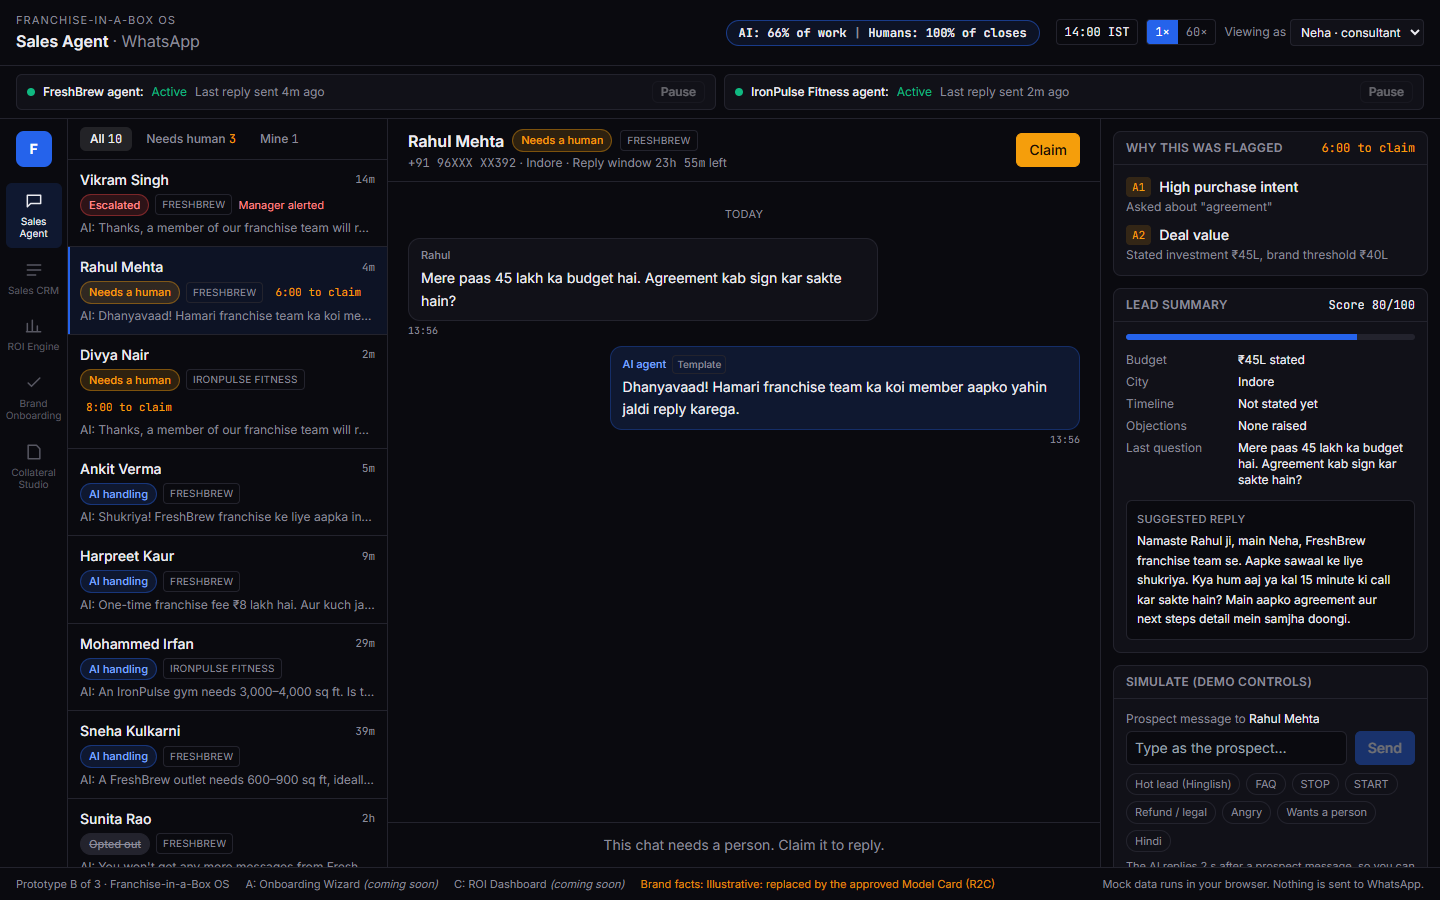
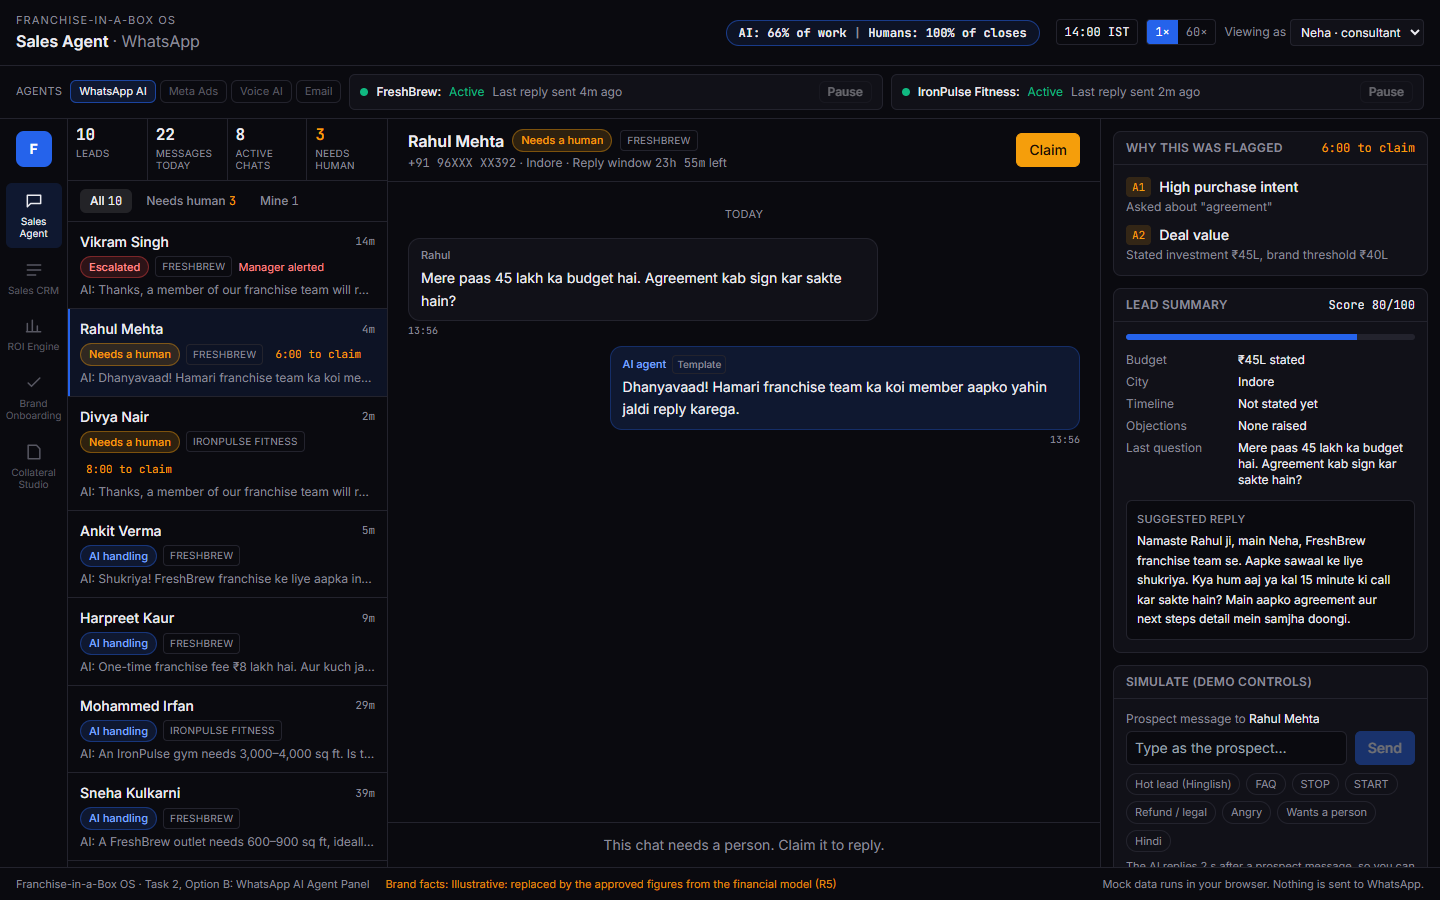
R2B: add Agent Switchboard and live tracking; drop A/C references
- Header leads with Module 4's Agent Switchboard (WhatsApp AI live; Meta Ads,
  Voice AI, Email shown but greyed: not part of this prototype)
- Inbox shows live counts: leads, messages today (with AI share), active chats,
  needs human
- Footer and approved-facts note no longer point to Prototypes A/C; facts are
  illustrative until the R5 financial model supplies them
- Screenshots retaken (desktop and 375 px, 0 console errors, no sideways scroll)

Changed region(s): [[0.0, 0.0933, 0.6875, 0.9956], [0.5, 0.0933, 0.8438, 0.1244], [0.25, 0.6844, 0.2812, 0.7156]]

diff --git a/prototypes/r2b-whatsapp-agent-panel/src/ui/Header.tsx b/prototypes/r2b-whatsapp-agent-panel/src/ui/Header.tsx
@@ -65,18 +65,36 @@ export function Header() {
   )
 }
 
+// Module 4's Agent Switchboard from the brief. Only the WhatsApp AI Agent is in this prototype (Task 2, Option B).
+const AGENTS = [
+  { id: 'whatsapp', label: 'WhatsApp AI', live: true },
+  { id: 'meta', label: 'Meta Ads', live: false },
+  { id: 'voice', label: 'Voice AI', live: false },
+  { id: 'email', label: 'Email', live: false },
+]
+
 function AgentStrip() {
   const { w, ui } = useApp()
   return (
-    <div className="flex flex-wrap gap-1.5 border-t border-line px-3 py-1.5 sm:gap-2 sm:px-4 sm:py-2" data-testid="agent-strip">
+    <div className="flex flex-wrap items-center gap-1.5 border-t border-line px-3 py-1.5 sm:gap-2 sm:px-4 sm:py-2" data-testid="agent-strip">
+      <div className="flex w-full items-center gap-1 lg:w-auto" role="group" aria-label="Agent switchboard" data-testid="switchboard">
+        <span className="mr-1 text-[11px] uppercase tracking-wide text-muted">Agents</span>
+        {AGENTS.map((g) => (
+          <span key={g.id} data-testid={`switch-${g.id}`} aria-disabled={!g.live}
+            title={g.live ? 'Shown below, per brand' : `${g.label} agent: not part of this prototype`}
+            className={`whitespace-nowrap rounded-md border px-2 py-0.5 text-[11px] ${g.live ? 'border-accent/60 bg-accent/15 text-ink' : 'cursor-not-allowed border-line text-muted/60'}`}>
+            {g.label}
+          </span>
+        ))}
+      </div>
       {Object.entries(w.agents).map(([brandId, a]) => {
         const isManager = MANAGER_OF[brandId] === ui.viewer
         const dot = a.status === 'ACTIVE' ? 'bg-success' : a.status === 'PAUSED' ? 'bg-alert' : 'bg-danger animate-pulse'
         return (
           <div key={brandId} data-testid={`agent-${brandId}`} data-status={a.status}
-            className="flex min-w-0 flex-1 basis-auto items-center sm:basis-72 gap-2 rounded-md border border-line bg-card px-2.5 py-1 text-xs sm:py-1.5">
+            className="flex min-w-0 flex-1 basis-auto items-center gap-2 sm:basis-64 rounded-md border border-line bg-card px-2.5 py-1 text-xs sm:py-1.5">
             <span className={`h-2 w-2 shrink-0 rounded-full ${dot}`} />
-            <span className="whitespace-nowrap font-medium">{BRANDS[brandId].name}<span className="hidden sm:inline"> agent</span>:</span>
+            <span className="whitespace-nowrap font-medium">{BRANDS[brandId].name}:</span>
             <span className={a.status === 'ERROR' ? 'text-[#FF8A8A]' : a.status === 'PAUSED' ? 'text-alert' : 'text-success'}>
               {a.status === 'ACTIVE' ? 'Active' : a.status === 'PAUSED' ? 'Paused' : 'Error'}
             </span>

diff --git a/prototypes/r2b-whatsapp-agent-panel/src/ui/Inbox.tsx b/prototypes/r2b-whatsapp-agent-panel/src/ui/Inbox.tsx
@@ -1,6 +1,6 @@
 import { USERS } from '../data/brands'
-import { fmtAgo, fmtCountdown, MIN } from '../engine/clock'
-import { claimTimeLeft } from '../engine/machine'
+import { HOUR, fmtAgo, fmtCountdown, MIN } from '../engine/clock'
+import { OPEN_STATES, claimTimeLeft } from '../engine/machine'
 import type { Conversation, World } from '../engine/types'
 import { setUI, useApp, type Filter } from '../store'
 import { BrandTag, StateChip } from './bits'
@@ -37,6 +37,7 @@ export function Inbox() {
 
   return (
     <section className="flex h-full min-h-0 flex-col border-r border-line" aria-label="Conversations">
+      <LiveStats />
       <div className="flex items-center gap-1 border-b border-line px-3 py-2" role="tablist">
         {FILTERS.map((f) => (
           <button key={f.id} role="tab" aria-selected={ui.filter === f.id} data-testid={`filter-${f.id}`}
@@ -55,6 +56,33 @@ export function Inbox() {
             : shown.map((c) => <Row key={c.id} c={c} />)}
       </ul>
     </section>
+  )
+}
+
+const IST = 5.5 * HOUR
+const dayOf = (t: number) => Math.floor((t + IST) / (24 * HOUR))
+
+/** Live tracking of leads, messages and conversations (brief, Module 4). Recomputed from the same world on every tick. */
+function LiveStats() {
+  const { w } = useApp()
+  const convs = Object.values(w.conversations)
+  const today = dayOf(w.now)
+  const msgs = Object.values(w.messages).flat().filter((m) => m.sender !== 'system' && dayOf(m.ts) === today)
+  const stats = [
+    { id: 'leads', label: 'Leads', value: convs.length },
+    { id: 'messages', label: 'Messages today', value: msgs.length, sub: `${msgs.filter((m) => m.sender === 'ai').length} by AI` },
+    { id: 'active', label: 'Active chats', value: convs.filter((c) => OPEN_STATES.includes(c.state)).length },
+    { id: 'needs-human', label: 'Needs human', value: convs.filter(needsHuman).length, alert: true },
+  ]
+  return (
+    <div className="grid grid-cols-4 border-b border-line" data-testid="live-stats" aria-label="Live tracking">
+      {stats.map((s) => (
+        <div key={s.id} className="border-r border-line px-2 py-2 last:border-r-0" data-testid={`stat-${s.id}`}>
+          <div className={`num text-base font-semibold leading-none ${s.alert && s.value ? 'text-alert' : ''}`}>{s.value}</div>
+          <div className="mt-1 text-[10px] uppercase leading-tight tracking-wide text-muted" title={s.sub ? `${s.label} · ${s.sub}` : s.label}>{s.label}</div>
+        </div>
+      ))}
+    </div>
   )
 }
 

diff --git a/prototypes/r2b-whatsapp-agent-panel/src/data/approvedFacts.ts b/prototypes/r2b-whatsapp-agent-panel/src/data/approvedFacts.ts
@@ -1,8 +1,8 @@
 // The only numbers the agent may quote (A32).
 //
-// ILLUSTRATIVE PLACEHOLDERS. The brief gives no FreshBrew figures and the ROI Dashboard (R2C) that
-// approves the real Model Card isn't built yet. Every value here is shown in the UI as "illustrative"
-// and gets replaced by R2C's approved Model Card export (task T2B.18). Nothing here is a sourced fact.
+// ILLUSTRATIVE PLACEHOLDERS. The brief gives no FreshBrew figures and the financial model (R5) isn't
+// built yet. Every value here is shown in the UI as "illustrative" and gets replaced by the approved
+// figures from the R5 Sheet (task T2B.18). Nothing here is a sourced fact.
 
 export interface Fact {
   topic: string
@@ -13,7 +13,7 @@ export interface Fact {
   hi: string
 }
 
-export const FACTS_STATUS = 'Illustrative: replaced by the approved Model Card (R2C)'
+export const FACTS_STATUS = 'Illustrative: replaced by the approved figures from the financial model (R5)'
 
 export const APPROVED_FACTS: Record<string, Fact[]> = {
   freshbrew: [

diff --git a/prototypes/r2b-whatsapp-agent-panel/src/ui/Shell.tsx b/prototypes/r2b-whatsapp-agent-panel/src/ui/Shell.tsx
@@ -47,12 +47,10 @@ export function Footer() {
   return (
     <footer className="border-t border-line px-3 py-1.5 text-[11px] text-muted sm:px-4 sm:py-2">
       <p className="truncate sm:hidden" title={FACTS_STATUS}>
-        Prototype B · <span className="text-alert/90">Brand facts illustrative</span> · Mock data, nothing sent
+        Option B prototype · <span className="text-alert/90">Brand facts illustrative</span> · Mock data, nothing sent
       </p>
       <div className="hidden flex-wrap items-center gap-x-4 gap-y-1 sm:flex">
-        <span>Prototype B of 3 · Franchise-in-a-Box OS</span>
-        <span>A: Onboarding Wizard <em>(coming soon)</em></span>
-        <span>C: ROI Dashboard <em>(coming soon)</em></span>
+        <span>Franchise-in-a-Box OS · Task 2, Option B: WhatsApp AI Agent Panel</span>
         <span className="text-alert/90">Brand facts: {FACTS_STATUS}</span>
         <span className="ml-auto">Mock data runs in your browser. Nothing is sent to WhatsApp.</span>
       </div>

diff --git a/prototypes/r2b-whatsapp-agent-panel/src/engine/types.ts b/prototypes/r2b-whatsapp-agent-panel/src/engine/types.ts
@@ -24,7 +24,7 @@ export interface Brand {
   id: string
   name: string
   category: string
-  /** A2 threshold: the brand's full franchise investment, in ₹ lakh (illustrative until R2C approves it). */
+  /** A2 threshold: the brand's full franchise investment, in ₹ lakh (illustrative until the R5 model sets it). */
   fullInvestmentLakh: number
 }
 
